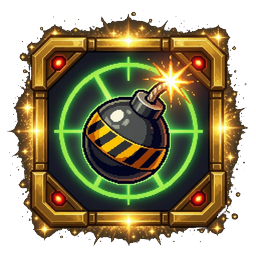
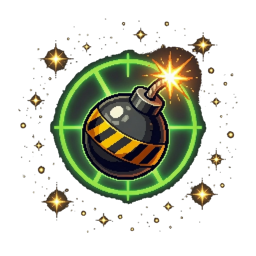
feat: scorecard skip-gate, plasma-net edge save, bg defocus + bomb art
- scorecard only skips on double-tap (after >1s) or single tap once TAP TO CONTINUE shows (stray firing taps no longer skip)
- plasma net clamps to screen bounds; iOS edge-cancel now fires the net instead of discarding it
- defocus (blur+grayscale, paused bg video) the just-completed level background behind the scorecard
- L8 ice-blue stroid shift pulled 18s->10s; L4 ambient debris 4->6
- CMDR "detonate the bomb" delayed 5s + throttled to once per 30s (was instant per-arm)
- swap in new framed bomb powerup art

diff --git a/script.js b/script.js
@@ -184,7 +184,7 @@ const verboseKey = "poly_oracle_verbose_details";
 const chaosEnabledKey = "poly_oracle_chaos_theme";
 const chaosPaletteKey = "poly_oracle_theme_palette";
 const galaxyToolKey = "poly_oracle_galaxy_tool";
-const BUILD_TS = "2026-06-26 10:26";
+const BUILD_TS = "2026-06-26 11:10";
 const debugTapsKey = "poly_oracle_debug_taps";
 const ufoFxPresetKey = "poly_oracle_ufo_fx_preset";
 const STORAGE_BEST_RUN = "poly-oracle-best-run";
@@ -621,7 +621,7 @@ const ARCADE_LEVELS = [
   { level: 4, label: "DEBRIS RUN", time: 54, totalToClear: 12, startSpawn: 6, spawnEveryMs: 2000, maxOnScreen: 12,
     // 2026-06-23: ambient silver debris trickles in throughout — bonus targets/hazards that do NOT
     // count toward the clear quota (spawned with .ambient = true; see the debris block in update()).
-    debrisField: { intervalMs: 1500, maxDebris: 4 } },
+    debrisField: { intervalMs: 1500, maxDebris: 6 } },
   { level: 5, label: "Emotions Heavy", time: 56, totalToClear: 13, startSpawn: 5, spawnEveryMs: 2000, maxOnScreen: 12,
     // 2026-06-23: missile unlocks at L5 — drop one near the end (~10s before the timer expires).
     guaranteedSpawn: [{ type: "bomb", atMs: 8000 }, { type: "bomb", atMs: 18000 }, { type: "missile", atMs: 46000 }] },
@@ -630,9 +630,10 @@ const ARCADE_LEVELS = [
     musicVolume: 1.15 }, // 2026-06-17: +15% music gain for this level
   { level: 7, label: "Into The Deep", time: 60, totalToClear: 16, startSpawn: 5, spawnEveryMs: 1800, maxOnScreen: 13 },
   { level: 8, label: "DEEP FREEZE", time: 64, totalToClear: 18, startSpawn: 6, spawnEveryMs: 1600, maxOnScreen: 14,
-    // 2026-06-24: mid-level skin shift — asteroids spawned after the 18s mark come in ice-blue
+    // 2026-06-24: mid-level skin shift — asteroids spawned after the shift mark come in ice-blue
     // (earlier ones keep their skin). Honored by pickArcadeSpriteOverride at the spawn call.
-    spriteShift: { afterMs: 18000, key: "roidice" } },
+    // 2026-06-26: shift pulled 18s→10s so more of the level spawns blue.
+    spriteShift: { afterMs: 10000, key: "roidice" } },
   { level: 9, label: "DANGER CLOSE", time: 68, totalToClear: 21, startSpawn: 6, spawnEveryMs: 1500, maxOnScreen: 14,
     spriteKey: "roid01", // 2026-06-23: silver stroids for the whole level
     musicRamp: { atMs: 25000, toMult: 1.4, rampMs: 4000 }, // 2026-06-24: noticeable swell ~25s in
@@ -6909,6 +6910,20 @@ function setGalaxyBackgroundDim(ratio = 0) {
   bgTint.style.background = `radial-gradient(circle at 50% 32%, rgba(140, 90, 255, ${alpha}), rgba(0, 0, 0, 0.54)), radial-gradient(circle at 50% 50%, rgba(0,0,0,0), rgba(0,0,0,${vignette}))`;
 }
 
+// 2026-06-26: blur+grayscale the just-completed level's background during the scorecard so the
+// player isn't left staring at the old playfield (no full level-transition animation — that was a
+// hang source). Pauses the bg video so the GPU filter runs over a static frame. Cleared in startLevel().
+function setLevelBackgroundDefocus(on) {
+  const bgStackEl = document.getElementById("bgStack");
+  const bgCanvasEl = document.getElementById("galaxyBgCanvas");
+  bgStackEl?.classList.toggle("level-defocus", on);
+  bgCanvasEl?.classList.toggle("level-defocus", on);
+  if (on) {
+    [bgVideoA, bgVideoB].forEach((v) => { try { v?.pause(); } catch {} });
+  }
+  // resume is implicit: the next level's setGalaxyBackgroundKey re-plays the front video.
+}
+
 async function setGalaxyBackgroundKey(key, opts = {}) {
   if (DISABLE_VIDEO_BG) return;
   initGalaxyBackgroundStack();
@@ -10839,6 +10854,27 @@ function initGalaxyCanvas() {
     drawStroidTossOverlay(now);
   }
 
+  // 2026-06-26: the "DETONATE THE BOMB" comm used to fire the instant a bomb was armed, every
+  // single time. Now it waits 5s and only nags if that bomb is STILL sitting armed — and at most
+  // once every 30s — so it's an occasional reminder, not a per-arm announcement.
+  let lastDetonateNagAt = 0;
+  function scheduleDetonateNag(mine) {
+    setTimeout(() => {
+      if (!mine || mine.phase !== "player_armed") return;            // re-armed / phase changed
+      if (landmine !== mine && !placedBombs.includes(mine)) return;  // already detonated / removed
+      const now = performance.now();
+      if (now - lastDetonateNagAt < 30000) return;                   // throttle the reminder
+      lastDetonateNagAt = now;
+      commBoxController.queueVO({
+        audioSrc: commBoxController.commVoSrc(
+          commBoxController.pickFromPool("detonate", commBoxController.POOL_DETONATE),
+        ),
+        event: "landmine",
+        priority: "high",
+      });
+    }, 5000);
+  }
+
   // 2026-06-10: shared tap behavior for any mine entity. explodeFn handles removal.
   function armMineEntity(mine, explodeFn) {
     if (!mine) return false;
@@ -10857,13 +10893,7 @@ function initGalaxyCanvas() {
       playGameSfx("landmine_arm", 1.0);
       playGameSfx("arm_bomb", 0.8);
       // startDangerLoop(); // 2026-06-09: danger_loop silenced
-      commBoxController.queueVO({
-        audioSrc: commBoxController.commVoSrc(
-          commBoxController.pickFromPool("detonate", commBoxController.POOL_DETONATE),
-        ),
-        event: "landmine",
-        priority: "high",
-      });
+      scheduleDetonateNag(mine); // 2026-06-26: delayed + throttled (was an instant per-arm VO)
       return true;
     }
 
@@ -11313,6 +11343,10 @@ function initGalaxyCanvas() {
     // still rendering, until the next startLevel() cleared them on dismiss. Idempotent with that.
     clearGameplayEntities();
 
+    // 2026-06-26: defocus the just-completed level's background (blur+grayscale, bg video paused)
+    // so it isn't sitting visible behind the scorecard. Cleared in startLevel() as the next bg loads.
+    setLevelBackgroundDefocus(true);
+
     // FIX 2026-06-09: duck music to 0.75 while the scorecard is up, restore on dismiss
     const scorecardMusicGainBefore = audioEngine.musicGain?.gain?.value ?? MUSIC_MAX_GAIN;
     const scorecardMusicHtmlVolBefore = audioEngine.currentMusicHtml?.node?.volume ?? MUSIC_MAX_GAIN;
@@ -11332,6 +11366,7 @@ function initGalaxyCanvas() {
     const shownAt = performance.now();
     let dismissed = false;
     let lastTapAt = 0;
+    let hintVisible = false; // 2026-06-26: TAP TO CONTINUE shown — single tap may now skip
     let autoTimer = null;
     const tallyTimers = [];
     let tallyDone = false;
@@ -11366,7 +11401,9 @@ function initGalaxyCanvas() {
       const tapNow = performance.now();
       const isDoubleTap = tapNow - lastTapAt < 350;
       lastTapAt = tapNow;
-      if (isDoubleTap || tapNow - shownAt >= 2000) dismiss();
+      // 2026-06-26: stray firing taps were skipping the scorecard. Only skip via either
+      // (a) a deliberate double-tap once it's been up ≥1s, or (b) a single tap once TAP TO CONTINUE shows.
+      if (hintVisible || (isDoubleTap && tapNow - shownAt >= 1000)) dismiss();
     }, { passive: false });
 
     autoTimer = setTimeout(dismiss, 7000);
@@ -11383,7 +11420,7 @@ function initGalaxyCanvas() {
           stopWriteLoop();
           // Hint appears concurrently while countup is still running
           tallyTimers.push(setTimeout(() => {
-            if (!dismissed) panel.querySelector(".lsr-hint")?.classList.add("in");
+            if (!dismissed) { panel.querySelector(".lsr-hint")?.classList.add("in"); hintVisible = true; }
           }, 400));
           // Score countup from scoreBefore → scoreAfter over ~1500ms
           const totalEl = panel.querySelector("#lsrTotalVal");
@@ -11732,6 +11769,7 @@ function initGalaxyCanvas() {
     stuntActive = false; // a real arcade level is never a stunt session
     practiceEndless = false; // ...nor an endless practice session (Stunt Practice re-sets this after)
     commBoxController.setLevelEndLock(false); // 2026-06-21 (Item 1b): next level live — end the level-end VO lock
+    setLevelBackgroundDefocus(false); // 2026-06-26: lift the scorecard bg blur as the next level's bg comes in
     const safeIdx = clamp(idx, 0, ARCADE_LEVELS.length - 1);
     audioEngine.unlock?.();
     audioEngine.loadMany?.(GAME_SFX);
@@ -15985,8 +16023,10 @@ function initGalaxyCanvas() {
         galaxyGesture.mode = "cage";
         galaxyGesture.canceled = !beginPlasmaCage(galaxyGesture.start, point, now);
       } else if (plasmaCage.active) {
-        plasmaCage.currentX = point.x;
-        plasmaCage.currentY = point.y;
+        // 2026-06-26: clamp the net corner to the play bounds so sliding a finger to the screen
+        // edge keeps the net alive on-screen instead of losing it off the edge.
+        plasmaCage.currentX = Math.max(0, Math.min(sim.width, point.x));
+        plasmaCage.currentY = Math.max(0, Math.min(sim.height, point.y));
       }
     }
   }
@@ -15995,7 +16035,10 @@ function initGalaxyCanvas() {
   // any in-progress grab and clear the gesture, or the grabbed stroid stays pinned in place.
   function onGalaxyPointerCancel() {
     if (stroidToss.active) cancelStroidToss();
-    if (plasmaCage.active) resetPlasmaCageGesture();
+    // 2026-06-26: an iOS edge-gesture pointercancel used to silently DISCARD an in-progress
+    // plasma net — players "lost" the net by dragging to the screen edge. Fire it instead so the
+    // drag still pays off; releasePlasmaCage fizzles harmlessly if it was too small to be a net.
+    if (plasmaCage.active) releasePlasmaCage(performance.now());
     galaxyGesture = null;
   }
 

diff --git a/www/script.js b/www/script.js
@@ -184,7 +184,7 @@ const verboseKey = "poly_oracle_verbose_details";
 const chaosEnabledKey = "poly_oracle_chaos_theme";
 const chaosPaletteKey = "poly_oracle_theme_palette";
 const galaxyToolKey = "poly_oracle_galaxy_tool";
-const BUILD_TS = "2026-06-26 10:26";
+const BUILD_TS = "2026-06-26 11:10";
 const debugTapsKey = "poly_oracle_debug_taps";
 const ufoFxPresetKey = "poly_oracle_ufo_fx_preset";
 const STORAGE_BEST_RUN = "poly-oracle-best-run";
@@ -621,7 +621,7 @@ const ARCADE_LEVELS = [
   { level: 4, label: "DEBRIS RUN", time: 54, totalToClear: 12, startSpawn: 6, spawnEveryMs: 2000, maxOnScreen: 12,
     // 2026-06-23: ambient silver debris trickles in throughout — bonus targets/hazards that do NOT
     // count toward the clear quota (spawned with .ambient = true; see the debris block in update()).
-    debrisField: { intervalMs: 1500, maxDebris: 4 } },
+    debrisField: { intervalMs: 1500, maxDebris: 6 } },
   { level: 5, label: "Emotions Heavy", time: 56, totalToClear: 13, startSpawn: 5, spawnEveryMs: 2000, maxOnScreen: 12,
     // 2026-06-23: missile unlocks at L5 — drop one near the end (~10s before the timer expires).
     guaranteedSpawn: [{ type: "bomb", atMs: 8000 }, { type: "bomb", atMs: 18000 }, { type: "missile", atMs: 46000 }] },
@@ -630,9 +630,10 @@ const ARCADE_LEVELS = [
     musicVolume: 1.15 }, // 2026-06-17: +15% music gain for this level
   { level: 7, label: "Into The Deep", time: 60, totalToClear: 16, startSpawn: 5, spawnEveryMs: 1800, maxOnScreen: 13 },
   { level: 8, label: "DEEP FREEZE", time: 64, totalToClear: 18, startSpawn: 6, spawnEveryMs: 1600, maxOnScreen: 14,
-    // 2026-06-24: mid-level skin shift — asteroids spawned after the 18s mark come in ice-blue
+    // 2026-06-24: mid-level skin shift — asteroids spawned after the shift mark come in ice-blue
     // (earlier ones keep their skin). Honored by pickArcadeSpriteOverride at the spawn call.
-    spriteShift: { afterMs: 18000, key: "roidice" } },
+    // 2026-06-26: shift pulled 18s→10s so more of the level spawns blue.
+    spriteShift: { afterMs: 10000, key: "roidice" } },
   { level: 9, label: "DANGER CLOSE", time: 68, totalToClear: 21, startSpawn: 6, spawnEveryMs: 1500, maxOnScreen: 14,
     spriteKey: "roid01", // 2026-06-23: silver stroids for the whole level
     musicRamp: { atMs: 25000, toMult: 1.4, rampMs: 4000 }, // 2026-06-24: noticeable swell ~25s in
@@ -6909,6 +6910,20 @@ function setGalaxyBackgroundDim(ratio = 0) {
   bgTint.style.background = `radial-gradient(circle at 50% 32%, rgba(140, 90, 255, ${alpha}), rgba(0, 0, 0, 0.54)), radial-gradient(circle at 50% 50%, rgba(0,0,0,0), rgba(0,0,0,${vignette}))`;
 }
 
+// 2026-06-26: blur+grayscale the just-completed level's background during the scorecard so the
+// player isn't left staring at the old playfield (no full level-transition animation — that was a
+// hang source). Pauses the bg video so the GPU filter runs over a static frame. Cleared in startLevel().
+function setLevelBackgroundDefocus(on) {
+  const bgStackEl = document.getElementById("bgStack");
+  const bgCanvasEl = document.getElementById("galaxyBgCanvas");
+  bgStackEl?.classList.toggle("level-defocus", on);
+  bgCanvasEl?.classList.toggle("level-defocus", on);
+  if (on) {
+    [bgVideoA, bgVideoB].forEach((v) => { try { v?.pause(); } catch {} });
+  }
+  // resume is implicit: the next level's setGalaxyBackgroundKey re-plays the front video.
+}
+
 async function setGalaxyBackgroundKey(key, opts = {}) {
   if (DISABLE_VIDEO_BG) return;
   initGalaxyBackgroundStack();
@@ -10839,6 +10854,27 @@ function initGalaxyCanvas() {
     drawStroidTossOverlay(now);
   }
 
+  // 2026-06-26: the "DETONATE THE BOMB" comm used to fire the instant a bomb was armed, every
+  // single time. Now it waits 5s and only nags if that bomb is STILL sitting armed — and at most
+  // once every 30s — so it's an occasional reminder, not a per-arm announcement.
+  let lastDetonateNagAt = 0;
+  function scheduleDetonateNag(mine) {
+    setTimeout(() => {
+      if (!mine || mine.phase !== "player_armed") return;            // re-armed / phase changed
+      if (landmine !== mine && !placedBombs.includes(mine)) return;  // already detonated / removed
+      const now = performance.now();
+      if (now - lastDetonateNagAt < 30000) return;                   // throttle the reminder
+      lastDetonateNagAt = now;
+      commBoxController.queueVO({
+        audioSrc: commBoxController.commVoSrc(
+          commBoxController.pickFromPool("detonate", commBoxController.POOL_DETONATE),
+        ),
+        event: "landmine",
+        priority: "high",
+      });
+    }, 5000);
+  }
+
   // 2026-06-10: shared tap behavior for any mine entity. explodeFn handles removal.
   function armMineEntity(mine, explodeFn) {
     if (!mine) return false;
@@ -10857,13 +10893,7 @@ function initGalaxyCanvas() {
       playGameSfx("landmine_arm", 1.0);
       playGameSfx("arm_bomb", 0.8);
       // startDangerLoop(); // 2026-06-09: danger_loop silenced
-      commBoxController.queueVO({
-        audioSrc: commBoxController.commVoSrc(
-          commBoxController.pickFromPool("detonate", commBoxController.POOL_DETONATE),
-        ),
-        event: "landmine",
-        priority: "high",
-      });
+      scheduleDetonateNag(mine); // 2026-06-26: delayed + throttled (was an instant per-arm VO)
       return true;
     }
 
@@ -11313,6 +11343,10 @@ function initGalaxyCanvas() {
     // still rendering, until the next startLevel() cleared them on dismiss. Idempotent with that.
     clearGameplayEntities();
 
+    // 2026-06-26: defocus the just-completed level's background (blur+grayscale, bg video paused)
+    // so it isn't sitting visible behind the scorecard. Cleared in startLevel() as the next bg loads.
+    setLevelBackgroundDefocus(true);
+
     // FIX 2026-06-09: duck music to 0.75 while the scorecard is up, restore on dismiss
     const scorecardMusicGainBefore = audioEngine.musicGain?.gain?.value ?? MUSIC_MAX_GAIN;
     const scorecardMusicHtmlVolBefore = audioEngine.currentMusicHtml?.node?.volume ?? MUSIC_MAX_GAIN;
@@ -11332,6 +11366,7 @@ function initGalaxyCanvas() {
     const shownAt = performance.now();
     let dismissed = false;
     let lastTapAt = 0;
+    let hintVisible = false; // 2026-06-26: TAP TO CONTINUE shown — single tap may now skip
     let autoTimer = null;
     const tallyTimers = [];
     let tallyDone = false;
@@ -11366,7 +11401,9 @@ function initGalaxyCanvas() {
       const tapNow = performance.now();
       const isDoubleTap = tapNow - lastTapAt < 350;
       lastTapAt = tapNow;
-      if (isDoubleTap || tapNow - shownAt >= 2000) dismiss();
+      // 2026-06-26: stray firing taps were skipping the scorecard. Only skip via either
+      // (a) a deliberate double-tap once it's been up ≥1s, or (b) a single tap once TAP TO CONTINUE shows.
+      if (hintVisible || (isDoubleTap && tapNow - shownAt >= 1000)) dismiss();
     }, { passive: false });
 
     autoTimer = setTimeout(dismiss, 7000);
@@ -11383,7 +11420,7 @@ function initGalaxyCanvas() {
           stopWriteLoop();
           // Hint appears concurrently while countup is still running
           tallyTimers.push(setTimeout(() => {
-            if (!dismissed) panel.querySelector(".lsr-hint")?.classList.add("in");
+            if (!dismissed) { panel.querySelector(".lsr-hint")?.classList.add("in"); hintVisible = true; }
           }, 400));
           // Score countup from scoreBefore → scoreAfter over ~1500ms
           const totalEl = panel.querySelector("#lsrTotalVal");
@@ -11732,6 +11769,7 @@ function initGalaxyCanvas() {
     stuntActive = false; // a real arcade level is never a stunt session
     practiceEndless = false; // ...nor an endless practice session (Stunt Practice re-sets this after)
     commBoxController.setLevelEndLock(false); // 2026-06-21 (Item 1b): next level live — end the level-end VO lock
+    setLevelBackgroundDefocus(false); // 2026-06-26: lift the scorecard bg blur as the next level's bg comes in
     const safeIdx = clamp(idx, 0, ARCADE_LEVELS.length - 1);
     audioEngine.unlock?.();
     audioEngine.loadMany?.(GAME_SFX);
@@ -15985,8 +16023,10 @@ function initGalaxyCanvas() {
         galaxyGesture.mode = "cage";
         galaxyGesture.canceled = !beginPlasmaCage(galaxyGesture.start, point, now);
       } else if (plasmaCage.active) {
-        plasmaCage.currentX = point.x;
-        plasmaCage.currentY = point.y;
+        // 2026-06-26: clamp the net corner to the play bounds so sliding a finger to the screen
+        // edge keeps the net alive on-screen instead of losing it off the edge.
+        plasmaCage.currentX = Math.max(0, Math.min(sim.width, point.x));
+        plasmaCage.currentY = Math.max(0, Math.min(sim.height, point.y));
       }
     }
   }
@@ -15995,7 +16035,10 @@ function initGalaxyCanvas() {
   // any in-progress grab and clear the gesture, or the grabbed stroid stays pinned in place.
   function onGalaxyPointerCancel() {
     if (stroidToss.active) cancelStroidToss();
-    if (plasmaCage.active) resetPlasmaCageGesture();
+    // 2026-06-26: an iOS edge-gesture pointercancel used to silently DISCARD an in-progress
+    // plasma net — players "lost" the net by dragging to the screen edge. Fire it instead so the
+    // drag still pays off; releasePlasmaCage fizzles harmlessly if it was too small to be a net.
+    if (plasmaCage.active) releasePlasmaCage(performance.now());
     galaxyGesture = null;
   }
 

diff --git a/style.css b/style.css
@@ -1550,6 +1550,15 @@ select:focus-visible {
   isolation: isolate;
 }
 
+/* 2026-06-26: defocus the just-completed level's background while the scorecard is up so the
+   player isn't staring at the old playfield. Cheap GPU filter (no per-frame JS); the bg video is
+   also paused so we filter a static frame. Cleared in startLevel() as the next level's bg fades in. */
+#bgStack.level-defocus,
+#galaxyBgCanvas.level-defocus {
+  filter: grayscale(1) blur(6px) brightness(0.55);
+  transition: filter 220ms ease;
+}
+
 .bgVideo {
   position: absolute;
   inset: 0;

diff --git a/www/style.css b/www/style.css
@@ -1550,6 +1550,15 @@ select:focus-visible {
   isolation: isolate;
 }
 
+/* 2026-06-26: defocus the just-completed level's background while the scorecard is up so the
+   player isn't staring at the old playfield. Cheap GPU filter (no per-frame JS); the bg video is
+   also paused so we filter a static frame. Cleared in startLevel() as the next level's bg fades in. */
+#bgStack.level-defocus,
+#galaxyBgCanvas.level-defocus {
+  filter: grayscale(1) blur(6px) brightness(0.55);
+  transition: filter 220ms ease;
+}
+
 .bgVideo {
   position: absolute;
   inset: 0;